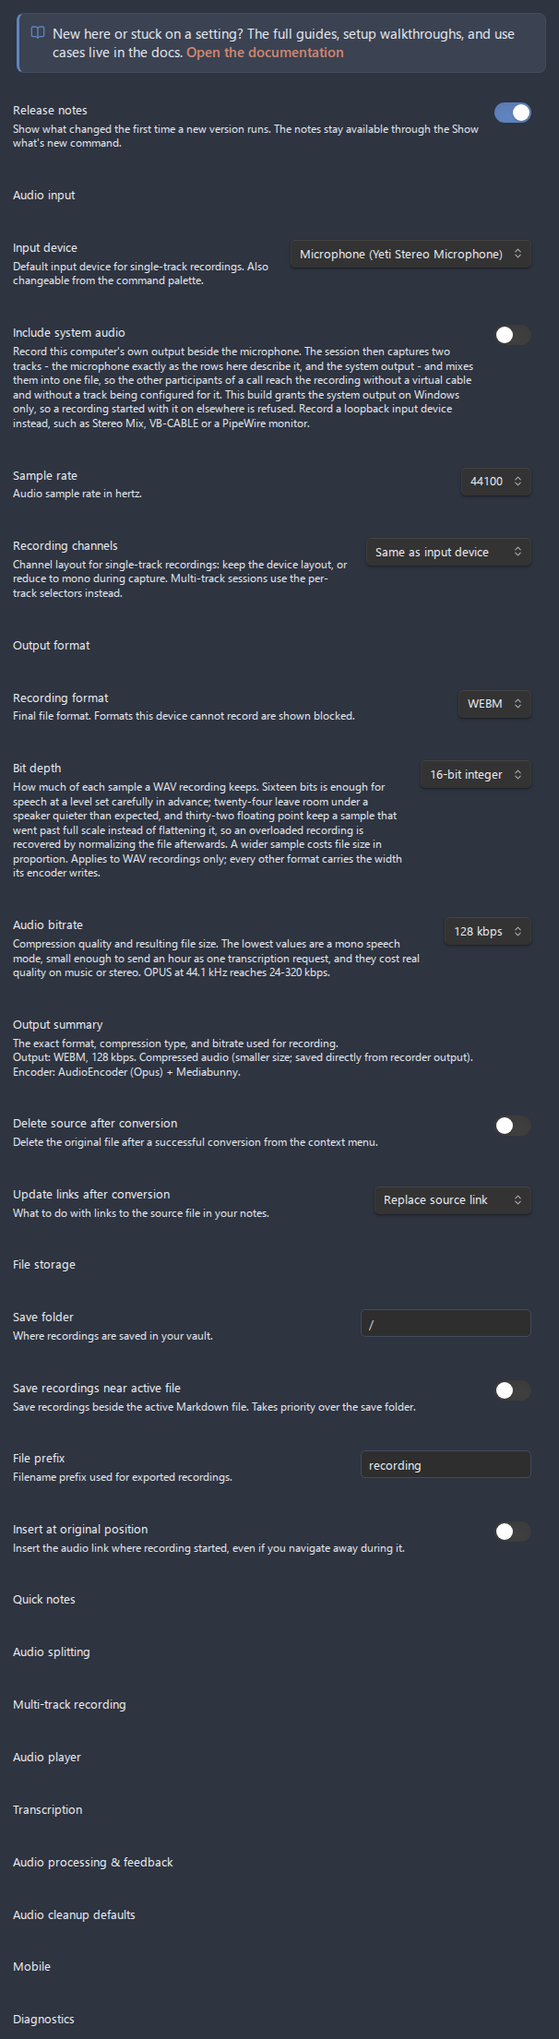
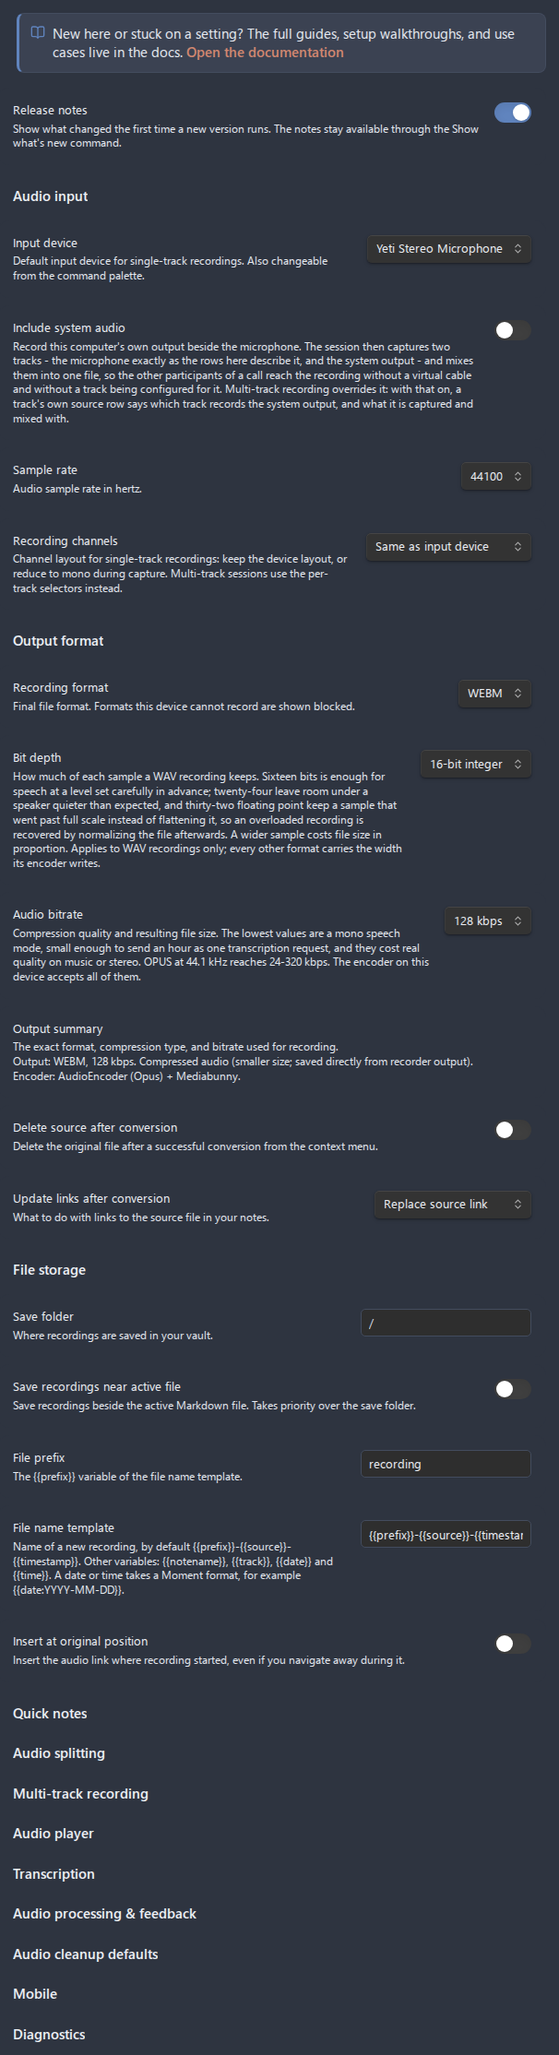
docs(recording): document the file name template and re-render its figures
The File storage settings page gained a File name template row, so the two
figures that picture it, settings-file-storage.png and
features-settings-overview.png, are re-rendered from the current code under
their existing names. The overview also picks up the descriptions other rows
have gained since it was last drawn.

Recording gets a Naming recordings section with the variable table, the date
and time formats, worked examples and the cleaning rules, which the settings
reference, getting started and multi-track pages link to. The multi-track
page states that the default template gives the names it described and that
a template naming every track alike has its later tracks numbered.

Refs #161

diff --git a/docs/settings-reference.md b/docs/settings-reference.md
@@ -100,15 +100,16 @@ Choose the final file format and quality for recordings, and how conversions han
 
 Decide where recordings are saved, what they are named, and where the embed link is inserted. See [Recording](recording.md) and [File operations](file-operations.md).
 
-![File storage settings with the save folder field, the save near active file toggle, the active file subfolder and file prefix fields, and the insert at original position toggle](images/settings-file-storage.png)
+![File storage settings with the save folder field, the save near active file toggle, the active file subfolder, file prefix and file name template fields, and the insert at original position toggle](images/settings-file-storage.png)
 
-| Setting                              | What it does                                                                                                                                                                      | Options / range                      | Default     |
-| ------------------------------------ | --------------------------------------------------------------------------------------------------------------------------------------------------------------------------------- | ------------------------------------ | ----------- |
-| **Save folder**                      | Vault folder where recordings are stored. Existing folders are suggested as you type.                                                                                             | Any vault folder path (autocomplete) | Vault root  |
-| **Save recordings near active file** | Save in the same directory as the active note. Takes priority over **Save folder** when on.                                                                                       | On / Off                             | Off         |
-| **Active file subfolder**            | Optional subfolder relative to the active file's directory (for example `audio`), created automatically if missing. **Only shown when "Save recordings near active file" is on.** | Folder name                          | - (empty)   |
-| **File prefix**                      | Filename prefix for recordings, for example `recording` produces `recording-<timestamp>.webm`.                                                                                    | Free text                            | `recording` |
-| **Insert at original position**      | Remember the note and cursor where recording started and insert the link there, even if you navigate away during recording.                                                       | On / Off                             | Off         |
+| Setting                              | What it does                                                                                                                                                                                                                                                                   | Options / range                      | Default                               |
+| ------------------------------------ | ------------------------------------------------------------------------------------------------------------------------------------------------------------------------------------------------------------------------------------------------------------------------------ | ------------------------------------ | ------------------------------------- |
+| **Save folder**                      | Vault folder where recordings are stored. Existing folders are suggested as you type.                                                                                                                                                                                          | Any vault folder path (autocomplete) | Vault root                            |
+| **Save recordings near active file** | Save in the same directory as the active note. Takes priority over **Save folder** when on.                                                                                                                                                                                    | On / Off                             | Off                                   |
+| **Active file subfolder**            | Optional subfolder relative to the active file's directory (for example `audio`), created automatically if missing. **Only shown when "Save recordings near active file" is on.**                                                                                              | Folder name                          | - (empty)                             |
+| **File prefix**                      | The `{{prefix}}` variable of the file name template. With the default template, `recording` produces `recording-<source name>-<timestamp>.webm`.                                                                                                                               | Free text                            | `recording`                           |
+| **File name template**               | How a new recording is named. Variables are `{{prefix}}`, `{{notename}}`, `{{source}}`, `{{track}}`, `{{timestamp}}`, `{{date}}` and `{{time}}`, and a date or time takes a Moment format, as in `{{date:YYYYMMDD}}`. See [Naming recordings](recording.md#naming-recordings). | Free text with variables             | `{{prefix}}-{{source}}-{{timestamp}}` |
+| **Insert at original position**      | Remember the note and cursor where recording started and insert the link there, even if you navigate away during recording.                                                                                                                                                    | On / Off                             | Off                                   |
 
 ---
 
@@ -448,11 +449,11 @@ Tools for verifying your setup and gathering information for bug reports. See [T
 
 ![Diagnostics settings with the test recording row and its Start test button, the system info row and the debug mode toggle](images/settings-diagnostics.png)
 
-| Setting            | What it does                                                                                                                                                                                                                                                                                                                                                                                                                                                                                                                 | Options / range         | Default |
-| ------------------ | ---------------------------------------------------------------------------------------------------------------------------------------------------------------------------------------------------------------------------------------------------------------------------------------------------------------------------------------------------------------------------------------------------------------------------------------------------------------------------------------------------------------------------- | ----------------------- | ------- |
-| **Test recording** | Records a 5-second clip with your current settings and plays it back inline. Nothing is saved to your vault; the clip is discarded when you leave settings.                                                                                                                                                                                                                                                                                                                                                                  | Button (**Start test**) | -       |
-| **System info**    | Opens the **System diagnostics** modal - Obsidian, Electron and Chromium versions, platform and operating system version, audio devices, whether this computer's own output can be captured and why not, supported formats and codecs, active recording configuration, and the recording-related plugin settings (format, bitrate, sample rate, save location, file prefix, multi-track config, selected input device, and the debug flag) - with a **Copy to clipboard** button. API keys are never written to this output. | The whole row opens it  | -       |
-| **Debug mode**     | Enable verbose logs (prefixed `[AudioRecorder]`) for troubleshooting recording issues.                                                                                                                                                                                                                                                                                                                                                                                                                                       | On / Off                | Off     |
+| Setting            | What it does                                                                                                                                                                                                                                                                                                                                                                                                                                                                                                                                     | Options / range         | Default |
+| ------------------ | ------------------------------------------------------------------------------------------------------------------------------------------------------------------------------------------------------------------------------------------------------------------------------------------------------------------------------------------------------------------------------------------------------------------------------------------------------------------------------------------------------------------------------------------------ | ----------------------- | ------- |
+| **Test recording** | Records a 5-second clip with your current settings and plays it back inline. Nothing is saved to your vault; the clip is discarded when you leave settings.                                                                                                                                                                                                                                                                                                                                                                                      | Button (**Start test**) | -       |
+| **System info**    | Opens the **System diagnostics** modal - Obsidian, Electron and Chromium versions, platform and operating system version, audio devices, whether this computer's own output can be captured and why not, supported formats and codecs, active recording configuration, and the recording-related plugin settings (format, bitrate, sample rate, save location, file prefix, file name template, multi-track config, selected input device, and the debug flag) - with a **Copy to clipboard** button. API keys are never written to this output. | The whole row opens it  | -       |
+| **Debug mode**     | Enable verbose logs (prefixed `[AudioRecorder]`) for troubleshooting recording issues.                                                                                                                                                                                                                                                                                                                                                                                                                                                           | On / Off                | Off     |
 
 ![The System diagnostics modal showing the JSON snapshot and a Copy to clipboard button](images/modal-system-info.png)
 

diff --git a/docs/recording.md b/docs/recording.md
@@ -251,6 +251,41 @@ This setting works together with the [file storage options](file-operations.md) 
 
 ---
 
+## Naming recordings
+
+A recording is named from the **File name template** under **Settings > Advanced Audio Recorder > File storage**. The default, `{{prefix}}-{{source}}-{{timestamp}}`, gives every recording the name it had before the template existed, so nothing is renamed when you update. The one exception is a **File prefix** that is empty, starts with a space or a dash, ends with a dash or holds two dashes in a row, because dashes fold as described below. The template is read when a recording starts, so a change applies from the next one.
+
+| Variable        | What it becomes                                                                                                                                                 | Example                    |
+| --------------- | --------------------------------------------------------------------------------------------------------------------------------------------------------------- | -------------------------- |
+| `{{prefix}}`    | The **File prefix** setting.                                                                                                                                    | `recording`                |
+| `{{notename}}`  | The name of the note that was active when the recording started, without its extension. Empty outside a note.                                                   | `Chorus idea`              |
+| `{{source}}`    | The source name of a track, which is its input device with non-alphanumeric characters removed, or `multitrack` for the merged file of a multi-track recording. | `BuiltinMicrophone`        |
+| `{{track}}`     | The track number. Empty for the merged file.                                                                                                                    | `2`                        |
+| `{{timestamp}}` | The moment the recording started, in the form the default name has always used.                                                                                 | `2026-11-04T09-05-07-000Z` |
+| `{{date}}`      | The day the recording started. A [Moment format](https://momentjs.com/docs/#/displaying/format/) after a colon sets it.                                         | `2026-11-04`               |
+| `{{time}}`      | The time the recording started. A Moment format after a colon sets it.                                                                                          | `09-05-07`                 |
+
+A template is plain text with variables in double braces, and nothing in it is run as code. A date or time takes its format after a colon, as in `{{date:YYYYMMDD}}` or `{{time:HH-mm}}`, and without one `{{date}}` reads `YYYY-MM-DD` and `{{time}}` reads `HH-mm-ss`. A variable the plugin does not know is refused in the settings with a message naming it, and that includes a near miss such as `{{Date}}` or `{{note_name}}`, because the names are exact.
+
+| Template                                        | File name                                 |
+| ----------------------------------------------- | ----------------------------------------- |
+| `{{notename}} {{date}}`                         | `Chorus idea 2026-11-04.webm`             |
+| `{{notename}}-{{date:YYYYMMDD}}-{{time:HH-mm}}` | `Chorus idea-20261104-09-05.webm`         |
+| `{{prefix}}-{{timestamp}}`                      | `recording-2026-11-04T09-05-07-000Z.webm` |
+
+The finished name is cleaned up so it is always a valid vault path:
+
+- A variable with nothing to show disappears and the dashes around it fold into one, so with `{{prefix}}-{{notename}}-{{timestamp}}` a recording started outside a note is named `recording-<timestamp>`, with a single dash between the two.
+- Two dashes in a row become one, and no dash or space is left at either end of the name.
+- Characters a path cannot hold (`\ / : * ? " < > |`) become dashes everywhere in the name. Dots become dashes in the note name only, because a dot there would read as the start of an extension, so a dot in the **File prefix** or in the template text stays.
+- A very long note name is cut at its end, and only as much as needed for the whole name to stay within 220 bytes. File systems allow 255 bytes in a file name, and the plugin keeps the rest for the endings it adds to temporary and part files. A letter outside the Latin alphabet takes two or more bytes, so a Cyrillic title is cut sooner than a Latin one of the same length, and any title is cut sooner when the prefix or the source name is long.
+- A name with nothing left falls back to the timestamp.
+- Tracks of one recording that would get the same name are numbered (`-2`, `-3`), so a template without `{{source}}` or `{{track}}` never makes one track overwrite another.
+
+An [auto-split](splitting.md) part and a converted file are named after the recording's own file name, so they carry whatever the template produced. The date and time are the machine's local time.
+
+---
+
 ## Crash recovery
 
 Recordings are crash-resilient on both desktop and mobile. While a session is active the plugin journals what it has already put on disk in `recording-journal.json` (in the plugin folder) and flushes audio as it goes. If Obsidian crashes, the machine loses power, the plugin is disabled mid-recording, or a phone's operating system closes the app in the background, the next launch detects the interrupted session and opens a recovery dialog.
@@ -330,6 +365,7 @@ These settings shape the recording workflow. See the [settings reference](settin
 | **Save folder**                      | The vault folder recordings are written to (default vault root).                                        | [File storage](settings-reference.md#file-storage)                              |
 | **Save recordings near active file** | Writes the file beside the active note instead; takes priority over Save folder.                        | [File storage](settings-reference.md#file-storage)                              |
 | **File prefix**                      | The filename prefix for new recordings (default `recording`).                                           | [File storage](settings-reference.md#file-storage)                              |
+| **File name template**               | How new recordings are named, from variables such as `{{notename}}` and `{{date}}`.                     | [Naming recordings](#naming-recordings)                                         |
 | **Insert at original position**      | Places the embed link where recording started rather than at the cursor on stop (default Off).          | [File storage](settings-reference.md#file-storage)                              |
 | **Split recordings automatically**   | Saves a long recording as fixed-duration part files (default Off).                                      | [Audio splitting](settings-reference.md#audio-splitting)                        |
 | **Part duration**                    | The length of each auto-split part in minutes (default 15, range 1-180).                                | [Audio splitting](settings-reference.md#audio-splitting)                        |

diff --git a/docs/multi-track-recording.md b/docs/multi-track-recording.md
@@ -69,7 +69,7 @@ The **Output mode** dropdown decides what happens when you stop the session.
 
 ### Single file (mixed)
 
-Every track is combined into a single mixed file at your configured [format](formats.md) and bitrate. The merged file names no device, since it holds them all, and is written as `<file prefix>-multitrack-<timestamp>.<ext>`, for example `recording-multitrack-2026-09-18T09-12-44-031Z.webm`. Mono inputs are duplicated into both channels; the output is mono only when every input is mono, and stereo otherwise. Tracks reduced to mono by their **Track N channels** setting count as mono inputs here - give every track a mono mode and the merged file is mono too. The mix runs **after** you stop recording, so a longer session takes a moment to assemble (the status bar shows the [save progress](recording.md#save-progress-in-the-status-bar)). One embed link is inserted into your note.
+Every track is combined into a single mixed file at your configured [format](formats.md) and bitrate. The merged file names no device, since it holds them all, and with the default [file name template](recording.md#naming-recordings) is written as `<file prefix>-multitrack-<timestamp>.<ext>`, for example `recording-multitrack-2026-09-18T09-12-44-031Z.webm`. Mono inputs are duplicated into both channels; the output is mono only when every input is mono, and stereo otherwise. Tracks reduced to mono by their **Track N channels** setting count as mono inputs here - give every track a mono mode and the merged file is mono too. The mix runs **after** you stop recording, so a longer session takes a moment to assemble (the status bar shows the [save progress](recording.md#save-progress-in-the-status-bar)). One embed link is inserted into your note.
 
 Because the tracks are mixed only once at stop, **merged output cannot be auto-split** - see [Interaction with automatic splitting](#interaction-with-automatic-splitting). For very long mixed sessions, mind the [memory notes](#memory-notes-for-merged-output) below.
 
@@ -95,7 +95,7 @@ Each track is saved as its **own separate file** - no mixing happens. You get on
 
 ### File naming in Multiple files mode
 
-In **Multiple files** mode, each track's file is named from the **source device name** by default, so you can tell the tracks apart at a glance. The name is built as:
+In **Multiple files** mode, each track's file is named from the **source device name** by default, so you can tell the tracks apart at a glance. With the default [file name template](recording.md#naming-recordings) the name is built as:
 
 ```text
 <file prefix>-<source name>-<timestamp>.<ext>
@@ -106,7 +106,7 @@ In **Multiple files** mode, each track's file is named from the **source device 
 - **`<timestamp>`** is the session timestamp shared by every track in the recording.
 - **`<ext>`** is the recording format's extension.
 
-When **two tracks use the same device**, their source names would be identical and the files would collide. To prevent that, the plugin **appends the track number** to disambiguate them - for example `recording-BuiltinMicrophone-1-...` and `recording-BuiltinMicrophone-2-...`. The suffix is only added to the tracks that actually clash; uniquely named tracks keep their plain source name.
+When **two tracks use the same device**, their source names would be identical and the files would collide. To prevent that, the plugin **appends the track number** to disambiguate them - for example `recording-BuiltinMicrophone-1-...` and `recording-BuiltinMicrophone-2-...`. The suffix is only added to the tracks that actually clash; uniquely named tracks keep their plain source name. A custom template that leaves out both `{{source}}` and `{{track}}` names every track alike, and the plugin numbers the later ones the same way.
 
 > **There is no toggle for this.** Using the source/device name (with the track number appended to disambiguate) is the **default and only** behavior in the current version. You do not need to enable anything, and there is no "use source names" setting in the UI.
 

diff --git a/docs/troubleshooting.md b/docs/troubleshooting.md
@@ -63,7 +63,7 @@ The snapshot contains the following groups:
 
 | Group                       | What it includes                                                                                                                                                                                                                                                                                                                                          |
 | --------------------------- | --------------------------------------------------------------------------------------------------------------------------------------------------------------------------------------------------------------------------------------------------------------------------------------------------------------------------------------------------------- |
-| **Plugin settings**         | Recording format, bitrate, sample rate, bit depth, save folder, save-near-active-file, active-file subfolder, file prefix, multi-track on/off, max tracks, output mode, per-track sources, selected input device id, and debug flag.                                                                                                                      |
+| **Plugin settings**         | Recording format, bitrate, sample rate, bit depth, save folder, save-near-active-file, active-file subfolder, file prefix, file name template, multi-track on/off, max tracks, output mode, per-track sources, selected input device id, and debug flag.                                                                                                  |
 | **Environment**             | Obsidian (API) version, Electron, Chromium and Node versions, platform, operating system version, architecture, and user agent.                                                                                                                                                                                                                           |
 | **Audio devices**           | Every detected audio input and output device, with id, label, group id, and kind.                                                                                                                                                                                                                                                                         |
 | **Audio capabilities**      | Supported formats, sample rates and bitrates, the bitrates each compressed format's encoder really accepts on this device at the rate an offline encode runs at, the per-codec support matrix, whether `MediaRecorder` and `getUserMedia` are available, and whether this computer's own output can be captured directly, with the reason when it cannot. |

diff --git a/docs/getting-started.md b/docs/getting-started.md
@@ -146,6 +146,8 @@ When **Save recordings near active file** is on, an optional **Active file subfo
 
 You can also turn on **Insert at original position** so the embed link lands at the cursor position where recording started, even if you navigate to another note while recording.
 
+To put the note's name or the date into the file name, change **File name template** - see [Naming recordings](recording.md#naming-recordings).
+
 Configure all of this under **Settings > Advanced Audio Recorder > File storage** - see [File storage](settings-reference.md#file-storage) for every field.
 
 ---
